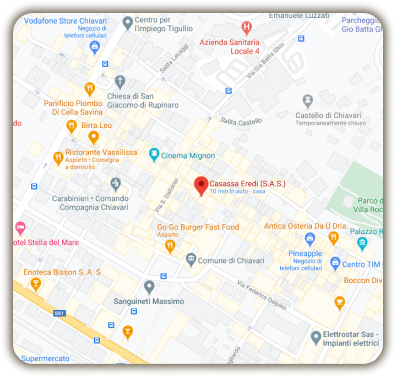
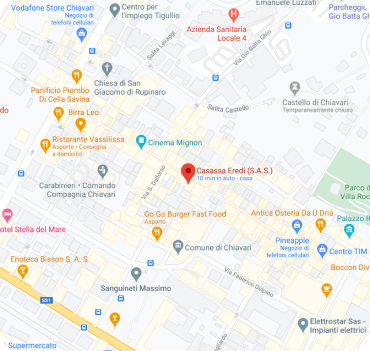
tablet completed

Changed region(s): [[0.0, 0.0, 1.0, 1.0], [0.5649, 0.1994, 0.5946, 0.2564], [0.6243, 0.1709, 0.6541, 0.1994]]

diff --git a/style.css b/style.css
@@ -6,7 +6,7 @@
   font-family: 'Life Savers', cursive;
   font-size: 400;
   color: var(--text);
-  --main-shadow: 1px 4px 10px rgb(21, 15, 9, 0.5);
+  --main-shadow: 1px 1px 10px rgb(21, 15, 9, 0.5);
 }
 
 body {
@@ -254,12 +254,12 @@ header button img {
   .navbar-list-item {
     padding-right: 3rem;
   }
+}
 
   .navbar-open {
     display: unset;
     right: 0;
   }
-}
 
 /* ---------> Footer */
 
@@ -402,6 +402,14 @@ main {
   box-shadow: var(--main-shadow);
 }
 
+@media (min-widt: 600px) {
+  .category {
+  width: 150px;
+  text-align: center;
+} 
+}
+
+
 /* ---------> Contacts */
 
 .contacts-container,
@@ -412,14 +420,19 @@ main {
   text-align: center;
 }
 
+
 .contact-form {
   text-align: left;
   height: 250px;
 }
 
-.form h1 {
+.contacts-column h1 {
   text-align: left;
   margin-bottom: 2em;
+}
+
+.map {
+  display: none;
 }
 
 .info {
@@ -430,4 +443,37 @@ main {
   margin: 0;
   font-weight: bold;
   font-size: 1rem;
+}
+
+@media(min-width: 600px) {
+  
+  .contacts-container {
+    flex-direction: row;
+    padding: 3em 2em;
+  }
+  
+  .contacts-column,
+  .contacts-column-2 {
+    width: 35%;
+  }
+  
+  .contacts-column-2 {
+    align-self: center;
+    
+  }
+  
+  .map {
+  display: unset;
+}
+  
+  
+.form h1 {
+  margin-bottom: 3em;
+}
+  
+  .info {
+    margin-top: 4em;
+text-align: right;
+  }
+
 }

diff --git a/contacts.html b/contacts.html
@@ -38,7 +38,7 @@
         </header>
         <main>
           <div class="contacts-container">
-            <div class="form">
+            <div class="contacts-column">
               <h1>Contattaci</h1>
               <form action="" class="contact-form">
                 <label for="name">Nome</label>
@@ -49,9 +49,14 @@
                 <textarea type="text" id="message"></textarea>
               </form>
             </div>
-            <div class="info">
-              <p>0185-309641</p>
-              <p>eredicasassa@gmail.com</p>
+            <div class="contacts-column-2">
+              <div class="map">
+                <img src="./assets/maps.png" alt="map" />
+              </div>
+              <div class="info">
+                <p>0185-309641</p>
+                <p>eredicasassa@gmail.com</p>
+              </div>
             </div>
           </div>
         </main>

diff --git a/products.html b/products.html
@@ -92,7 +92,7 @@
                 src="./assets/categories/3.jpeg"
                 alt=""
               />
-              <span class="category-label">Elettrici</span>
+              <span class="category-label">Elettricità</span>
             </div>
             <div class="category">
               <img
